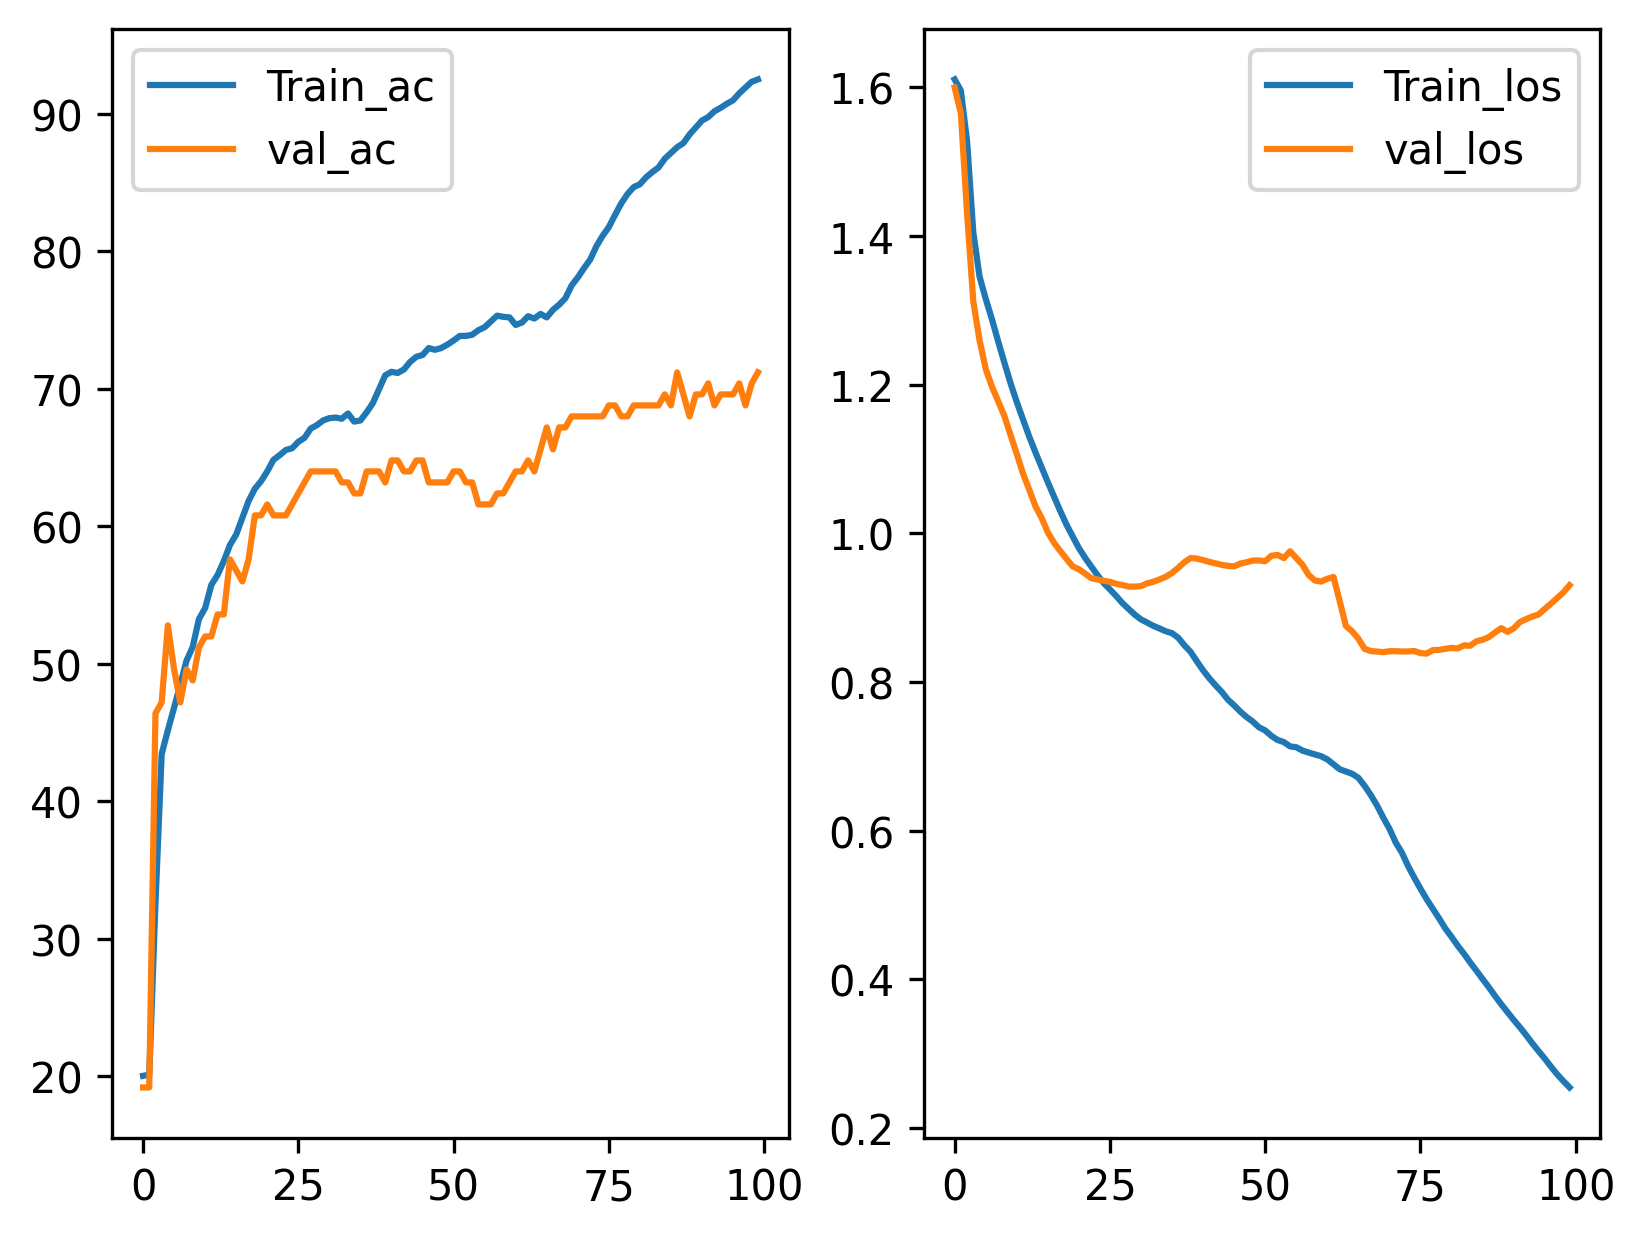
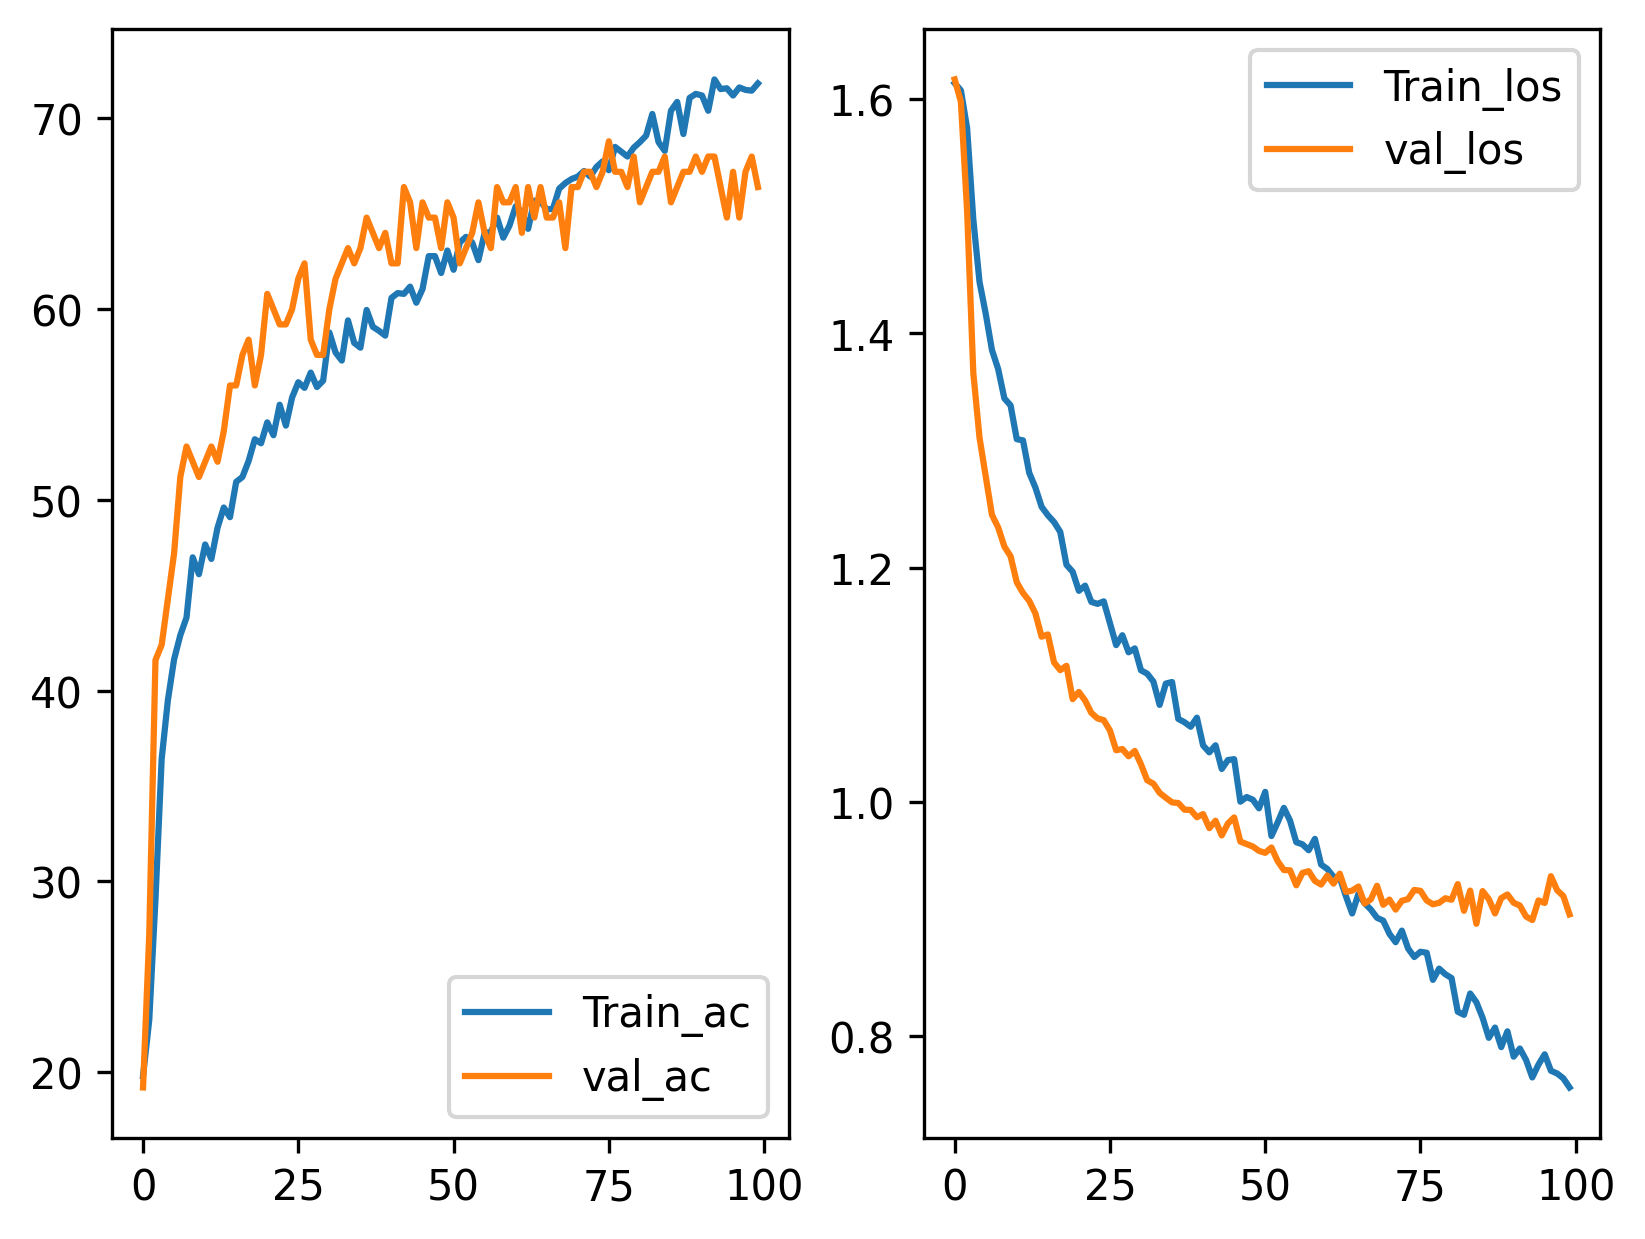
Naming

diff --git a/Config/config_model3.py b/Config/config_model3.py
@@ -29,7 +29,7 @@ class Config:
         self._valdata_ratio = 0.05
         self._width_transform=32
         self._height_transform=32
-        self._dropout=0 
+        self._dropout=0.18 
         self._conv_Arch = [
         {"out_channels": 64, "kernel_size": 3, "stride": 1, "padding": 1, "maxpool": 0},
         {"out_channels": 128, "kernel_size": 3, "stride": 1, "padding": 1, "maxpool": 2},
